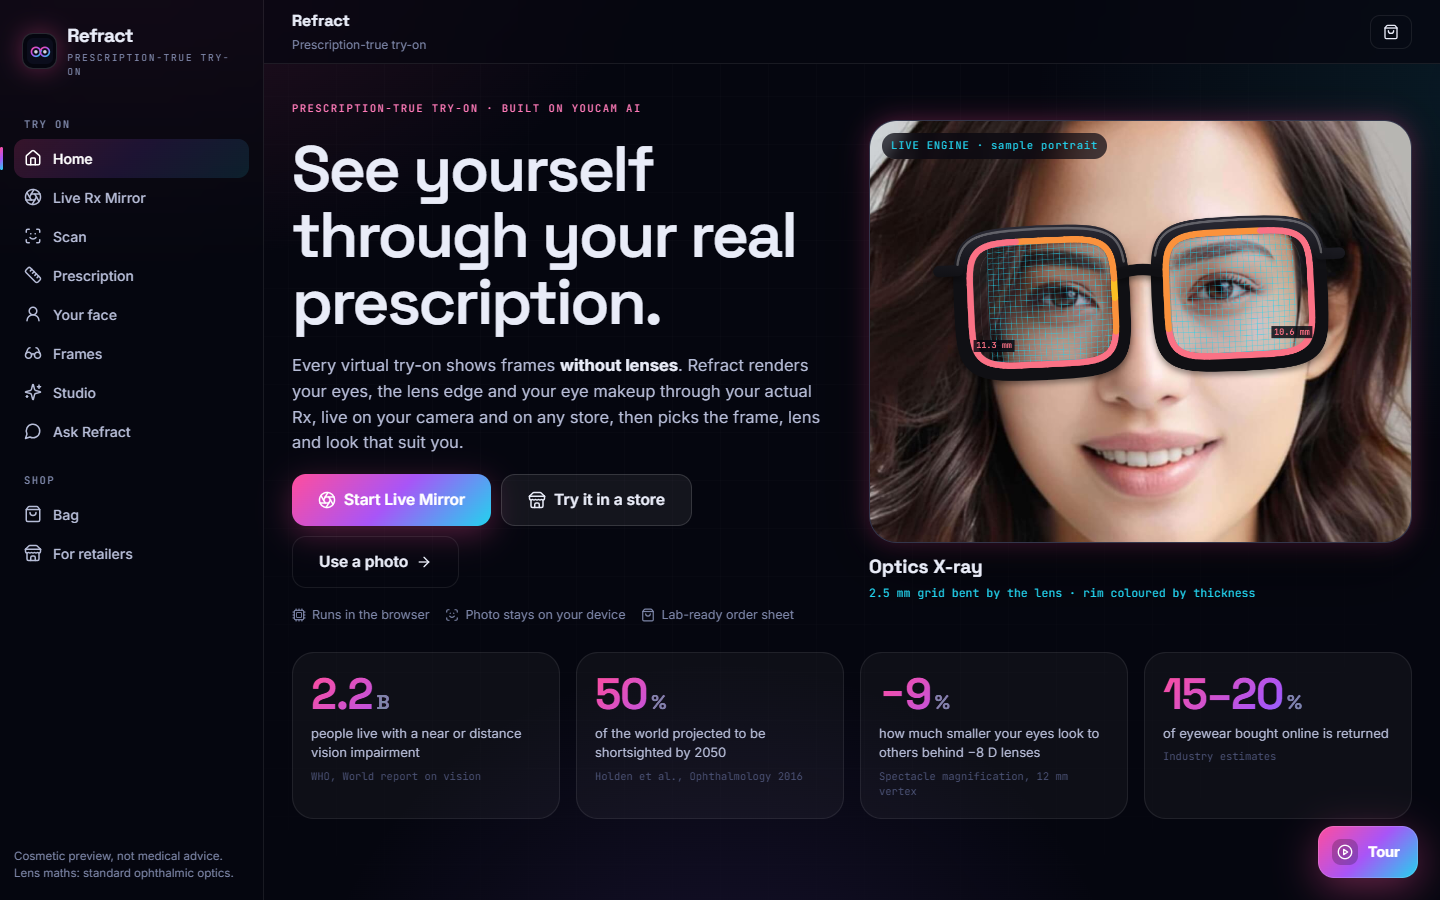
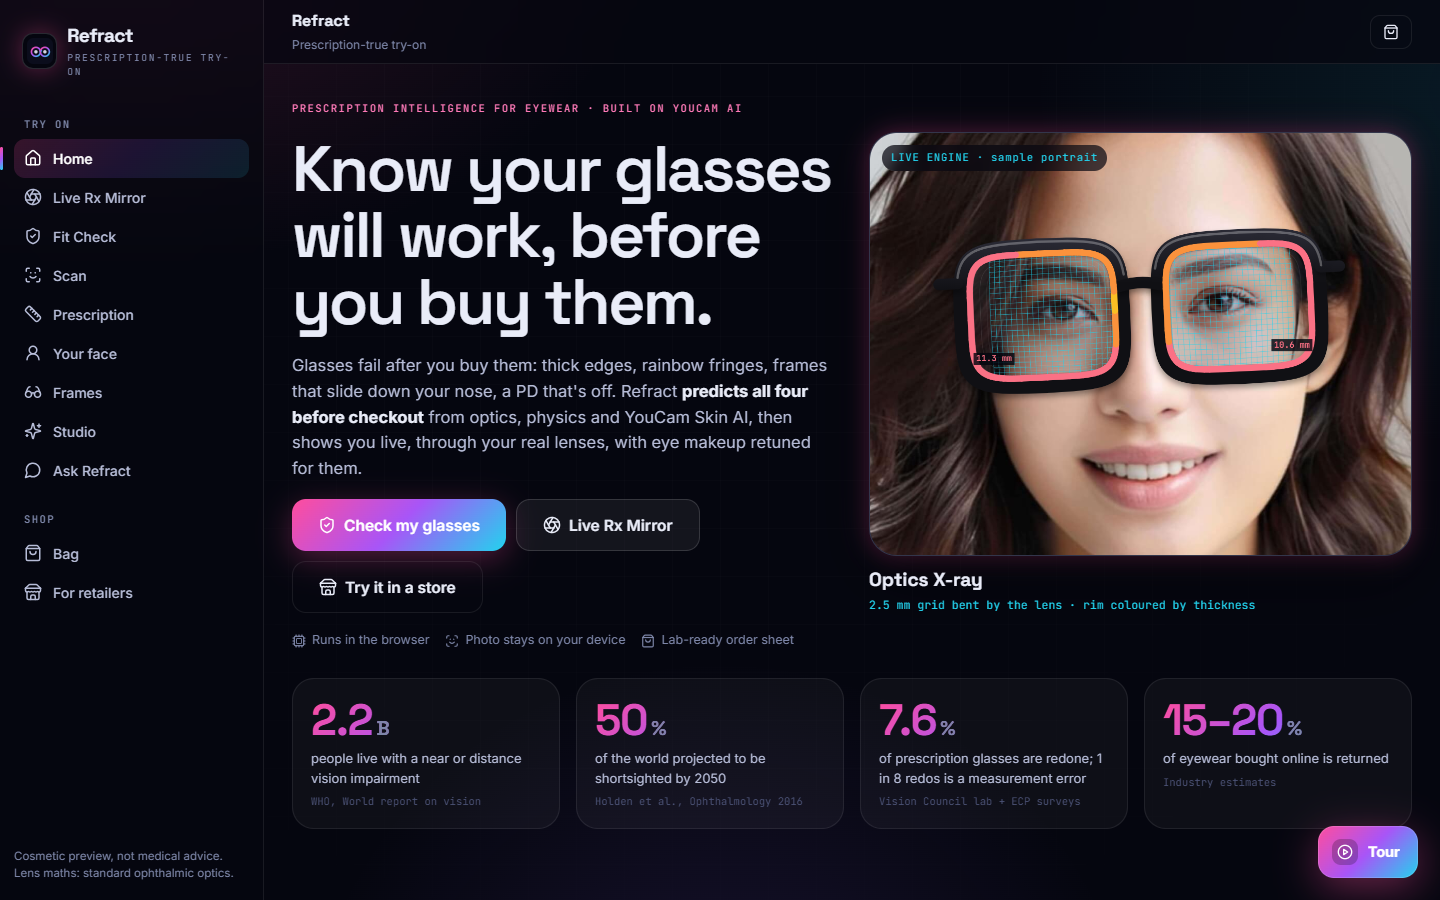
docs: v3 screenshots (home, Fit Check, Sight simulator, retailer SaaS, API/MCP); numbers in Devpost text match the dashboard

diff --git a/src/App.jsx b/src/App.jsx
@@ -54,7 +54,7 @@ const TITLES = [
   ["/studio", "Studio", "Prescription-true try-on"],
   ["/agent", "Ask Refract", "Optician + makeup agent"],
   ["/bag", "Bag", "Order sheet"],
-  ["/retail", "For retailers", "Catalogue Rx audit"],
+  ["/retail", "For retailers", "Remake-risk SaaS"],
   ["/", "Refract", "Prescription-true try-on"],
 ];
 const EMBED_TABS = [["/live", "Live"], ["/check", "Fit check"], ["/studio", "Photo"], ["/rx", "My Rx"], ["/scan", "Scan"]];

diff --git a/docs/DEVPOST.md b/docs/DEVPOST.md
@@ -52,7 +52,7 @@ A WebGL2 shader re-renders your camera through your exact sphere, cylinder and a
 - **REST API:** `POST /api/v1/risk` scores one frame, or ranks the catalogue.
 - **MCP server:** AI shopping agents (Claude, ChatGPT) get Rx-aware tools: `rank_frames`, `remake_risk`, `lens_report`, `sight_by_material`. Existing eyewear MCP servers only do cart and checkout.
 - **Retailer dashboard:**
-  - a simulated order stream: 11% of orders are high risk, and Refract's fixes cut high-risk orders by 62%;
+  - a simulated order stream: 11% of orders are high risk, and Refract's fixes cut high-risk orders from 33 to 13 (−61%) and average risk by 37%;
   - an ROI calculator (7.6% redo rate × $90 per remake);
   - pricing at $49 / $199 / custom per store.
 - **Catalogue Rx audit** and an Rx-suitability feed.
